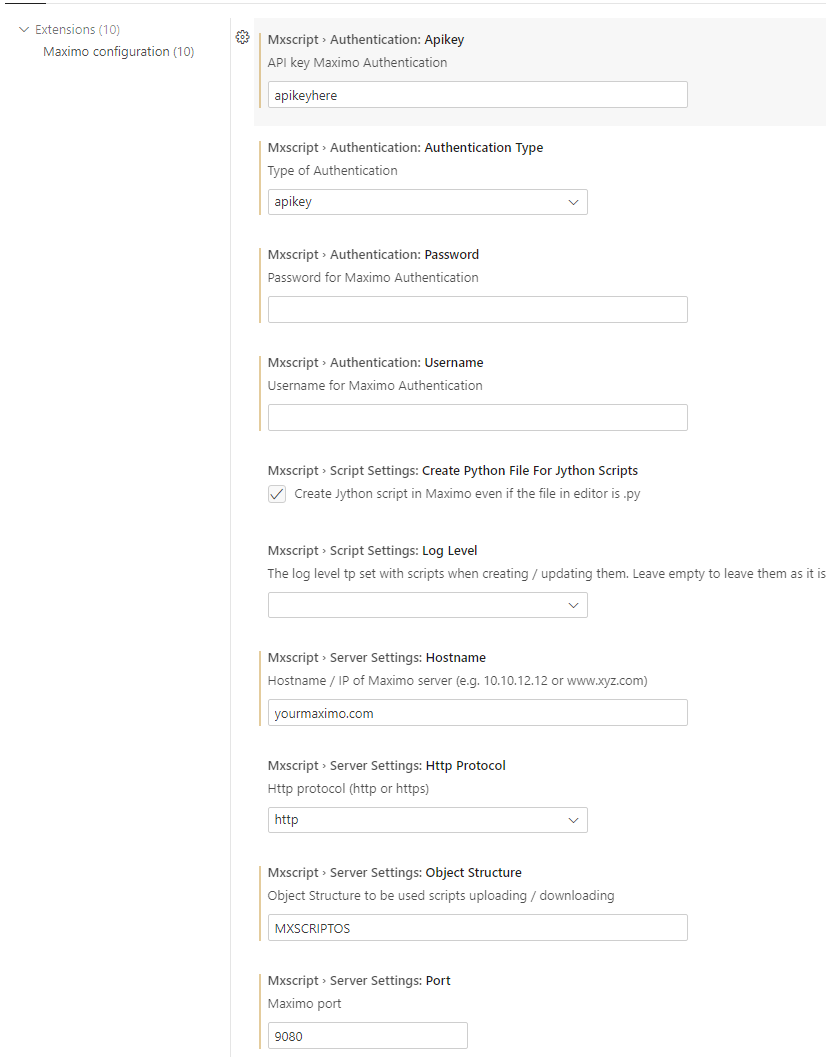
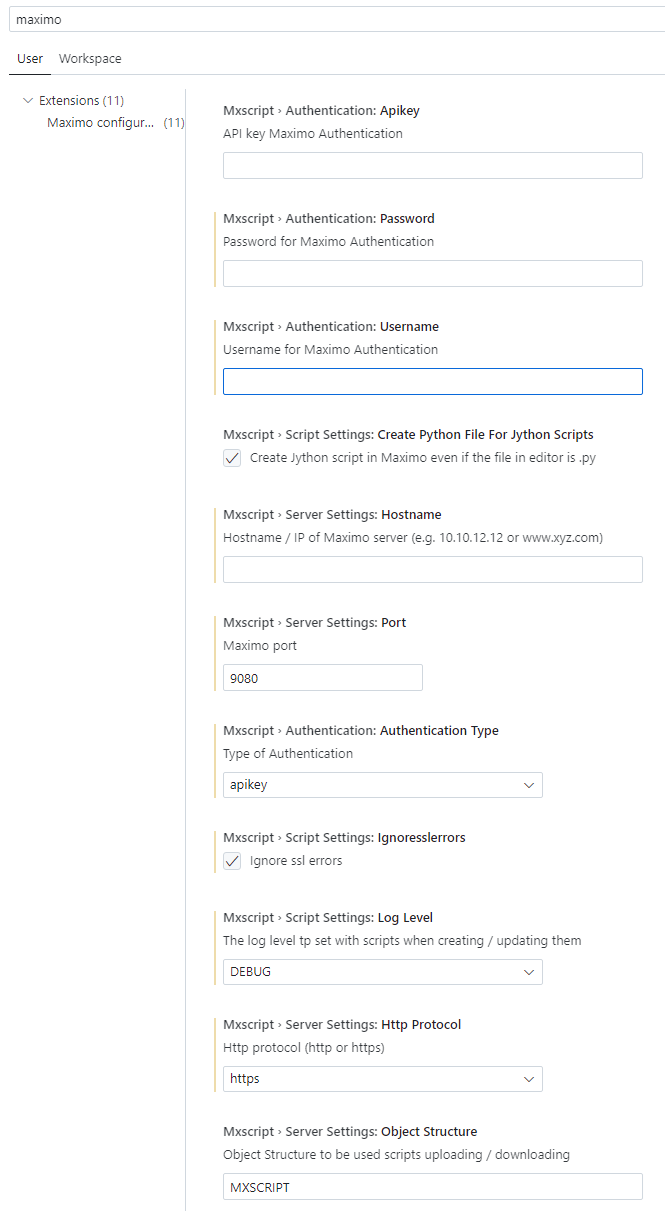
option to ignore ssl errors

diff --git a/src/extension.ts b/src/extension.ts
@@ -2,7 +2,6 @@ import * as vscode from "vscode";
 import { AutoScriptXMLService } from './service/AutoScript/AutoScriptXMLService';
 import { IAutoScriptService } from './service/AutoScript/IAutoScriptService';
 import { ConfigService } from './service/Config/ConfigService';
-import IConfigService from './service/Config/IConfigService';
 
 
 export function activate(context: vscode.ExtensionContext) {
@@ -14,8 +13,7 @@ export function activate(context: vscode.ExtensionContext) {
 
   };
   let compare = vscode.commands.registerCommand("mxscript.compare", () => {
-    let cs: ConfigService = new ConfigService();
-    let as: IAutoScriptService = new AutoScriptXMLService(context, cs);
+    let as: IAutoScriptService = new AutoScriptXMLService(context, new ConfigService());
     as.compareWithServer();
   });
   let upload = vscode.commands.registerCommand("mxscript.upload", () => {
@@ -23,14 +21,21 @@ export function activate(context: vscode.ExtensionContext) {
     as.uploadScript();
   });
   let update = vscode.commands.registerCommand("mxscript.update", () => {
-    let cs: IConfigService = new ConfigService();
-    let as: IAutoScriptService = new AutoScriptXMLService(context, cs);
+    let as: IAutoScriptService = new AutoScriptXMLService(context, new ConfigService());
     as.updateScript();
   });
   let downloadall = vscode.commands.registerCommand("mxscript.downloadall", () => {
     let as: AutoScriptXMLService = new AutoScriptXMLService(context, new ConfigService());
     as.downloadAllScripts();
   });
+ 
+  vscode.workspace.onDidChangeConfiguration(event => {
+    if (event.affectsConfiguration('mxscript.scriptSettings.ignoresslerrors')) {
+      let ignoreSsl = vscode.workspace.getConfiguration().get("mxscript.scriptSettings.ignoresslerrors")
+      process.env['NODE_TLS_REJECT_UNAUTHORIZED'] = ignoreSsl ? '0' : '1';
+    }
+  });
+
   context.subscriptions.push(vscode.workspace.registerTextDocumentContentProvider(MxScriptScheme, MxScriptProvider));
   context.subscriptions.push(upload);
   context.subscriptions.push(downloadall);

diff --git a/out/extension.js b/out/extension.js
@@ -11,8 +11,7 @@ function activate(context) {
         }
     };
     let compare = vscode.commands.registerCommand("mxscript.compare", () => {
-        let cs = new ConfigService_1.ConfigService();
-        let as = new AutoScriptXMLService_1.AutoScriptXMLService(context, cs);
+        let as = new AutoScriptXMLService_1.AutoScriptXMLService(context, new ConfigService_1.ConfigService());
         as.compareWithServer();
     });
     let upload = vscode.commands.registerCommand("mxscript.upload", () => {
@@ -20,13 +19,18 @@ function activate(context) {
         as.uploadScript();
     });
     let update = vscode.commands.registerCommand("mxscript.update", () => {
-        let cs = new ConfigService_1.ConfigService();
-        let as = new AutoScriptXMLService_1.AutoScriptXMLService(context, cs);
+        let as = new AutoScriptXMLService_1.AutoScriptXMLService(context, new ConfigService_1.ConfigService());
         as.updateScript();
     });
     let downloadall = vscode.commands.registerCommand("mxscript.downloadall", () => {
         let as = new AutoScriptXMLService_1.AutoScriptXMLService(context, new ConfigService_1.ConfigService());
         as.downloadAllScripts();
+    });
+    vscode.workspace.onDidChangeConfiguration(event => {
+        if (event.affectsConfiguration('mxscript.scriptSettings.ignoresslerrors')) {
+            let ignoreSsl = vscode.workspace.getConfiguration().get("mxscript.scriptSettings.ignoresslerrors");
+            process.env['NODE_TLS_REJECT_UNAUTHORIZED'] = ignoreSsl ? '0' : '1';
+        }
     });
     context.subscriptions.push(vscode.workspace.registerTextDocumentContentProvider(MxScriptScheme, MxScriptProvider));
     context.subscriptions.push(upload);

diff --git a/out/service/AutoScript/AutoScriptXMLService.js b/out/service/AutoScript/AutoScriptXMLService.js
@@ -287,6 +287,7 @@ class AutoScriptXMLService {
                 return;
             });
             syncResponse = syncResponse;
+            console.log(`upload script status = ${syncResponse.status}`);
             let autoScriptData = yield syncResponse.text();
             if (!syncResponse.ok && syncResponse.status !== 200 && syncResponse.status !== 201) {
                 this.vscode.window.showErrorMessage("Error in uploading script " + autoScriptData);
@@ -317,11 +318,12 @@ class AutoScriptXMLService {
             }
             let compareResponse = yield node_fetch_1.default(url, payload)
                 .catch(e => {
-                console.log(e.message);
+                console.log(`Error: ${e.message}`);
                 vscode.window.showErrorMessage('Error ' + e.status + " : " + e.message + "\n" + e.body);
                 return;
             });
             compareResponse = compareResponse;
+            console.log(`upload script status = ${compareResponse.status}`);
             let autoScriptData = yield compareResponse.text();
             if (!compareResponse.ok && compareResponse.status !== 200 && compareResponse.status !== 201) {
                 this.vscode.window.showErrorMessage("Error in fetching data " + autoScriptData);

diff --git a/src/service/AutoScript/AutoScriptXMLService.ts b/src/service/AutoScript/AutoScriptXMLService.ts
@@ -313,6 +313,7 @@ export class AutoScriptXMLService implements IAutoScriptService {
                 return;
             });
         syncResponse = syncResponse as Response;
+        console.log(`upload script status = ${syncResponse.status}`)
         let autoScriptData: string = await syncResponse.text();
 
         if (!syncResponse.ok && syncResponse.status !== 200 && syncResponse.status !== 201) {
@@ -345,11 +346,12 @@ export class AutoScriptXMLService implements IAutoScriptService {
         }
         let compareResponse = await fetch(url, payload)
             .catch(e => {
-                console.log(e.message);
+                console.log(`Error: ${e.message}`);
                 vscode.window.showErrorMessage('Error ' + e.status + " : " + e.message + "\n" + e.body);
                 return;
             });
         compareResponse = compareResponse as Response;
+        console.log(`upload script status = ${compareResponse.status}`)
         let autoScriptData: string = await compareResponse.text();
         if (!compareResponse.ok && compareResponse.status !== 200 && compareResponse.status !== 201) {
             this.vscode.window.showErrorMessage("Error in fetching data " + autoScriptData);

diff --git a/src/service/Config/ConfigService.ts b/src/service/Config/ConfigService.ts
@@ -22,6 +22,7 @@ export class ConfigService implements IConfigService {
   private isNextGen: boolean;
   private prefersPythonInEditor: boolean;
   private ldapAuth: boolean;
+  private ignoreSsl: boolean;
 
   constructor() {
     this.hostname = this.vscode.workspace.getConfiguration().get('mxscript.serverSettings.hostname');
@@ -44,6 +45,7 @@ export class ConfigService implements IConfigService {
     this.sourceTag = "SOURCE";
     this.languageTag = "SCRIPTLANGUAGE";
     this.LOG = "LOG";
+    this.ignoreSsl = this.vscode.workspace.getConfiguration().get("mxscript.scriptSettings.ignoresslerrors");
   }
   getFileExtension(): string{
     let currentlyOpenTabfilePath: string = this.vscode.window.activeTextEditor.document.fileName;
@@ -127,6 +129,9 @@ export class ConfigService implements IConfigService {
     filename = filename.toUpperCase();
     filename = filename.substr(0, filename.lastIndexOf("."));
     return filename;
+  }
+  public ignoreSslError(): boolean {
+    return this.ignoreSsl;
   }
 
 }

diff --git a/out/service/Config/ConfigService.js b/out/service/Config/ConfigService.js
@@ -24,6 +24,7 @@ class ConfigService {
         this.sourceTag = "SOURCE";
         this.languageTag = "SCRIPTLANGUAGE";
         this.LOG = "LOG";
+        this.ignoreSsl = this.vscode.workspace.getConfiguration().get("mxscript.scriptSettings.ignoresslerrors");
     }
     getFileExtension() {
         let currentlyOpenTabfilePath = this.vscode.window.activeTextEditor.document.fileName;
@@ -106,6 +107,9 @@ class ConfigService {
         filename = filename.toUpperCase();
         filename = filename.substr(0, filename.lastIndexOf("."));
         return filename;
+    }
+    ignoreSslError() {
+        return this.ignoreSsl;
     }
 }
 exports.ConfigService = ConfigService;

diff --git a/src/service/Config/MockConfigService.ts b/src/service/Config/MockConfigService.ts
@@ -23,6 +23,7 @@ export class MockConfigService implements IConfigService {
   private isNextGen: boolean;
   private prefersJython: boolean;
   private languageTag: string;
+  private ignoreSsl: boolean;
 
   constructor(authType: string) {
     this.hostname = '10.231.105.128';
@@ -44,7 +45,10 @@ export class MockConfigService implements IConfigService {
     this.sourceTag = "SOURCE";
     this.LOG = "LOG";
     this.languageTag = "SCRIPTLANGUAGE";
-
+    this.ignoreSsl = true;
+  }
+  public ignoreSslError(): boolean {
+    return this.ignoreSsl;
   }
   getLanguageTag(): string {
     return this.languageTag;

diff --git a/out/service/Config/MockConfigService.js b/out/service/Config/MockConfigService.js
@@ -23,6 +23,10 @@ class MockConfigService {
         this.sourceTag = "SOURCE";
         this.LOG = "LOG";
         this.languageTag = "SCRIPTLANGUAGE";
+        this.ignoreSsl = true;
+    }
+    ignoreSslError() {
+        return this.ignoreSsl;
     }
     getLanguageTag() {
         return this.languageTag;

diff --git a/src/service/Config/IConfigService.ts b/src/service/Config/IConfigService.ts
@@ -20,5 +20,5 @@ export default interface IConfigService {
   getFilename: () => string;
   getFileExtension: () => string;
   getCreatePythonScriptInEditor:() => boolean;
-  
+  ignoreSslError:() => boolean;
 }

diff --git a/README.md b/README.md
@@ -67,7 +67,7 @@ This downloads all the scripts from Maximo server to the folder you selected.
 
 ## Requirements
 
-You should have access to an instance of IBM Maximo / ICD to manage scripts.
+You should have access to an instance of IBM Maximo to manage scripts.
 
 #### Configuring Object Structure
 You must have rights to use an object structure having `AUTOSCRIPT` as its base object. 
@@ -76,7 +76,7 @@ You must have rights to use an object structure having `AUTOSCRIPT` as its base 
 If somehow your installation does not have this OS then follow the following steps to create an object structure. 
 1. Goto Object Strcutures
 2. Click on `New Object Structure`
-3. Give it any name e.g. `MXSCRIPTOS`. In Consumed by field enter `INTEGRATION`
+3. Give it any name e.g. `MXSCRIPT`. In Consumed by field enter `INTEGRATION`
 4. In the source object table click on New Row. Then in that new row select `AUTOSCRIPT` in object field.
 5. Save
 
@@ -102,16 +102,20 @@ Before using this extension you need to add a few settings. It's easier to edit 
 Other than that you can also edit them in `settings.json` of your project.
 
 This extension contributes the following settings:
+| Property Name                                           | Type     | Default     | Description                                                                                   |
+|---------------------------------------------------------|----------|-------------|-----------------------------------------------------------------------------------------------|
+| `mxscript.serverSettings.hostname`                      | string   |         | Hostname / IP of Maximo server (e.g. 10.10.12.12 or www.xyz.com)                               |
+| `mxscript.serverSettings.port`                          | number   |             | Maximo port                                                                                   |
+| `mxscript.authentication.username`                      | string   | maxadmin    | Username for Maximo Authentication                                                            |
+| `mxscript.authentication.password`                      | string   | maxadmin    | Password for Maximo Authentication                                                            |
+| `mxscript.authentication.apikey`                        | string   |           | API key Maximo Authentication                                                                 |
+| `mxscript.authentication.authenticationType`            | string   | internal    | Type of Authentication (internal, ldap, apikey)                                               |
+| `mxscript.serverSettings.objectStructure`               | string   | MXSCRIPT    | Object Structure to be used for scripts uploading / downloading                               |
+| `mxscript.serverSettings.httpProtocol`                  | string   | http        | Http protocol (http or https)                                                                 |
+| `mxscript.scriptSettings.createPythonFileForJythonScripts` | boolean  | true        | Create Jython script in Maximo even if the file in editor is .py                               |
+| `mxscript.scriptSettings.logLevel`                      | string   |             | The log level to set with scripts when creating / updating them (DEBUG, INFO, WARN, ERROR, FATAL) |
+| `mxscript.scriptSettings.ignoresslerrors`               | boolean  | false       | Ignore SSL errors                                                                             |
 
-* `mxscript.serverSettings.hostname`: Hostname / IP of Maximo server (e.g. 10.10.12.12 or www.yourmaximoserver.com)
-* `mxscript.serverSettings.port`: Maximo port. Default is 9080
-* `mxscript.serverSettings.httpProtocol`: Http protocol. Either `http` or `https`
-* `mxscript.authentication.username`: Username for Maximo Authentication
-* `mxscript.authentication.password`: Password for Maximo Authentication
-* `mxscript.authentication.apikey`: API key for Maximo Authentication
-* `mxscript.serverSettings.objectStructure`: Object Structure to be used scripts uploading / downloading. Make sure you use an object structure with only `AUTOSCRIPT` as source object and it should not have any child objects in it.
-* `mxscript.scriptSettings.createPythonFileForJythonScripts`: Create Jython script in Maximo even if the file in editor is .py. Helps in intellisense
-* `mxscript.scriptSettings.logLevel`: The log level to set with scripts when creating / updating them. Possible values are `DEBUG,INFO,WARN,ERROR,FATAL`.
 
 
 ## Known Issues
@@ -124,6 +128,8 @@ If you encounter any bug then please open an issue at github [repository](https:
 
 ## Release Notes
 
+### 0.6.5
+Added option to ignore SSL based errors
 
 ### 0.6.0
 Added support for API key
